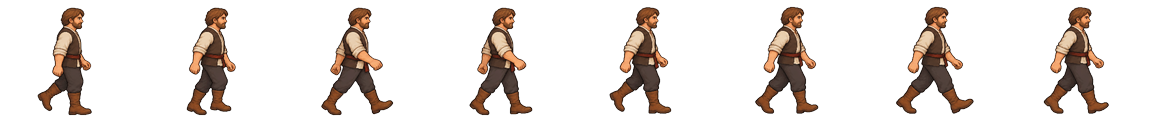
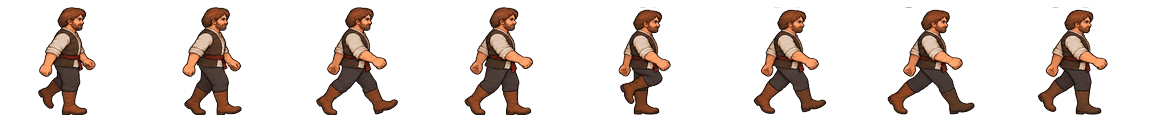
feat: новый лист ходьбы Степана (вторая генерация), скрипт make_walk_sheet.py
Story: npc-walk

Claude-Session: https://claude.ai/code/session_01M2yzKUY13BFBUUu6TcitHH

diff --git a/tools/make_walk_sheet.py b/tools/make_walk_sheet.py
@@ -1,0 +1,24 @@
+# Лист ходьбы NPC из сетки 4x2 (8 кадров, порядок слева направо, сверху вниз) от генератора картинок.
+# Кадры режутся по сетке, масштаб — по кадру 2 (ноги вместе), голова во всех кадрах на одной высоте и по одной вертикали
+# (по середине головы, не по ступням: ступни при шаге уходят), линия пола общая. Палитра игры не накладывается.
+# Запуск: python tools/make_walk_sheet.py stepan 108   (id, высота голова-пол в пикселях сетки 144x120)
+import sys, numpy as np
+from PIL import Image
+sys.path.insert(0, 'tools'); import make_npcs
+cid = sys.argv[1]; H_T = int(sys.argv[2]) if len(sys.argv) > 2 else 108
+D = f'assets/characters/{cid}/'
+im = Image.open(D + f'source/{cid}_walk_gpt.png').convert('RGBA'); W, H = im.size; cw, ch = W // 4, H // 2
+raw = []
+for r in range(2):
+    for c in range(4):
+        sub = im.crop((c * cw, r * ch, (c + 1) * cw, (r + 1) * ch)); al = np.array(sub)[:, :, 3] > 40
+        ys, xs = np.nonzero(al); raw.append((sub, al, ys.min(), ys.max()))
+s = H_T / (raw[1][3] - raw[1][2]); cells = []
+for sub, al, y0, y1 in raw:
+    hx = np.nonzero(al[y0:y0 + 60])[1].mean()
+    sm = sub.resize((round(sub.width * s), round(sub.height * s)), Image.LANCZOS)
+    cell = Image.new('RGBA', (144, 120), (0, 0, 0, 0)); cell.paste(sm, (round(72 - hx * s), 115 - H_T - round(y0 * s)), sm); cells.append(cell)
+sheet = Image.new('RGBA', (144 * 8, 120))
+for i, c in enumerate(cells): sheet.paste(c, (i * 144, 0))
+sheet.save(D + f'{cid}_walk.png')
+Image.fromarray(make_npcs.idle_frames(np.asarray(cells[1]))).save(D + f'{cid}_idle.png'); print(cid, sheet.size, round(s, 3))
